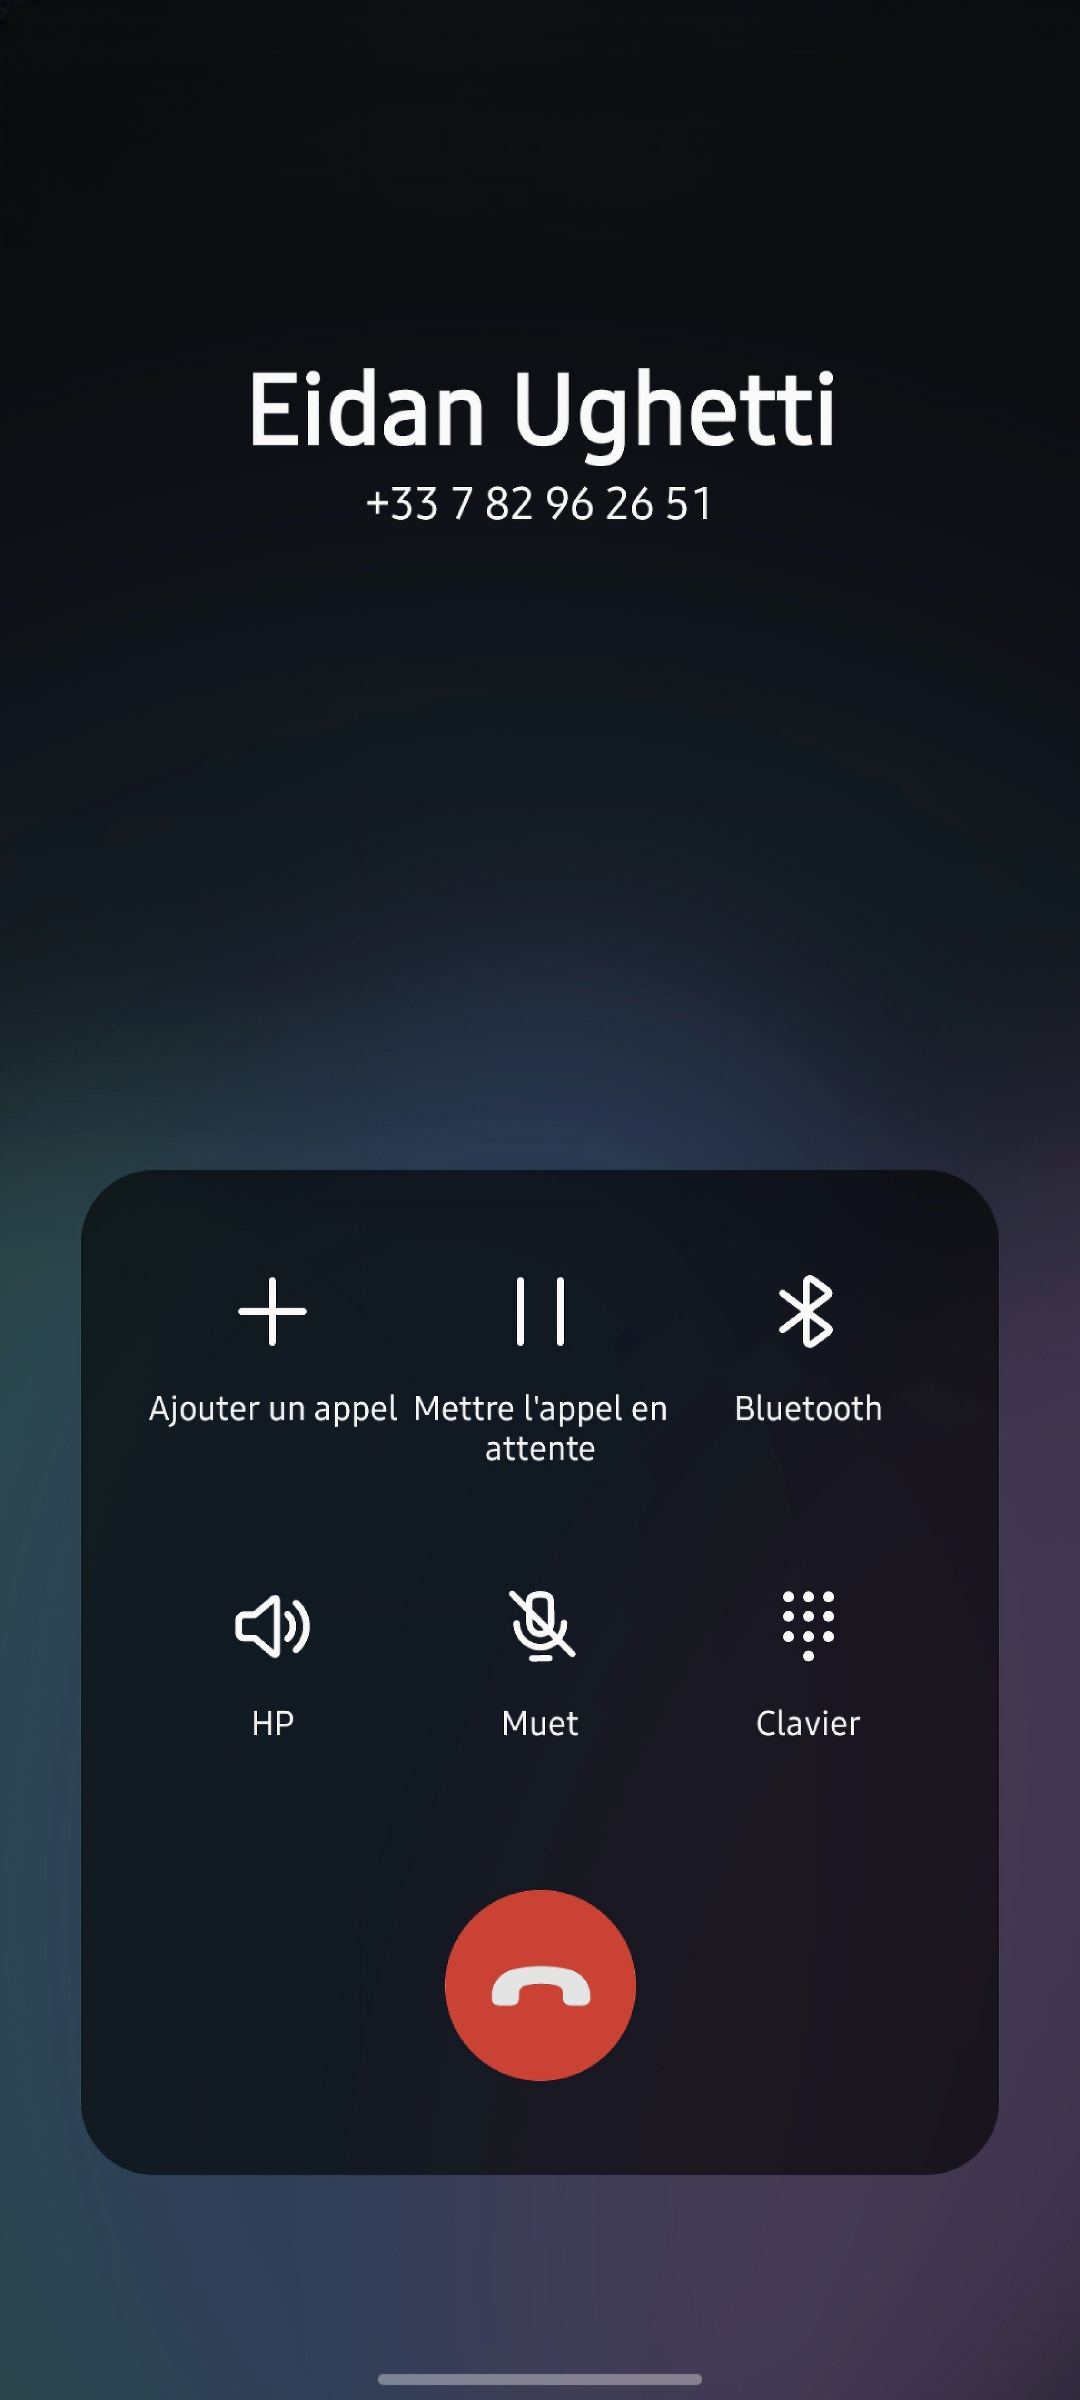
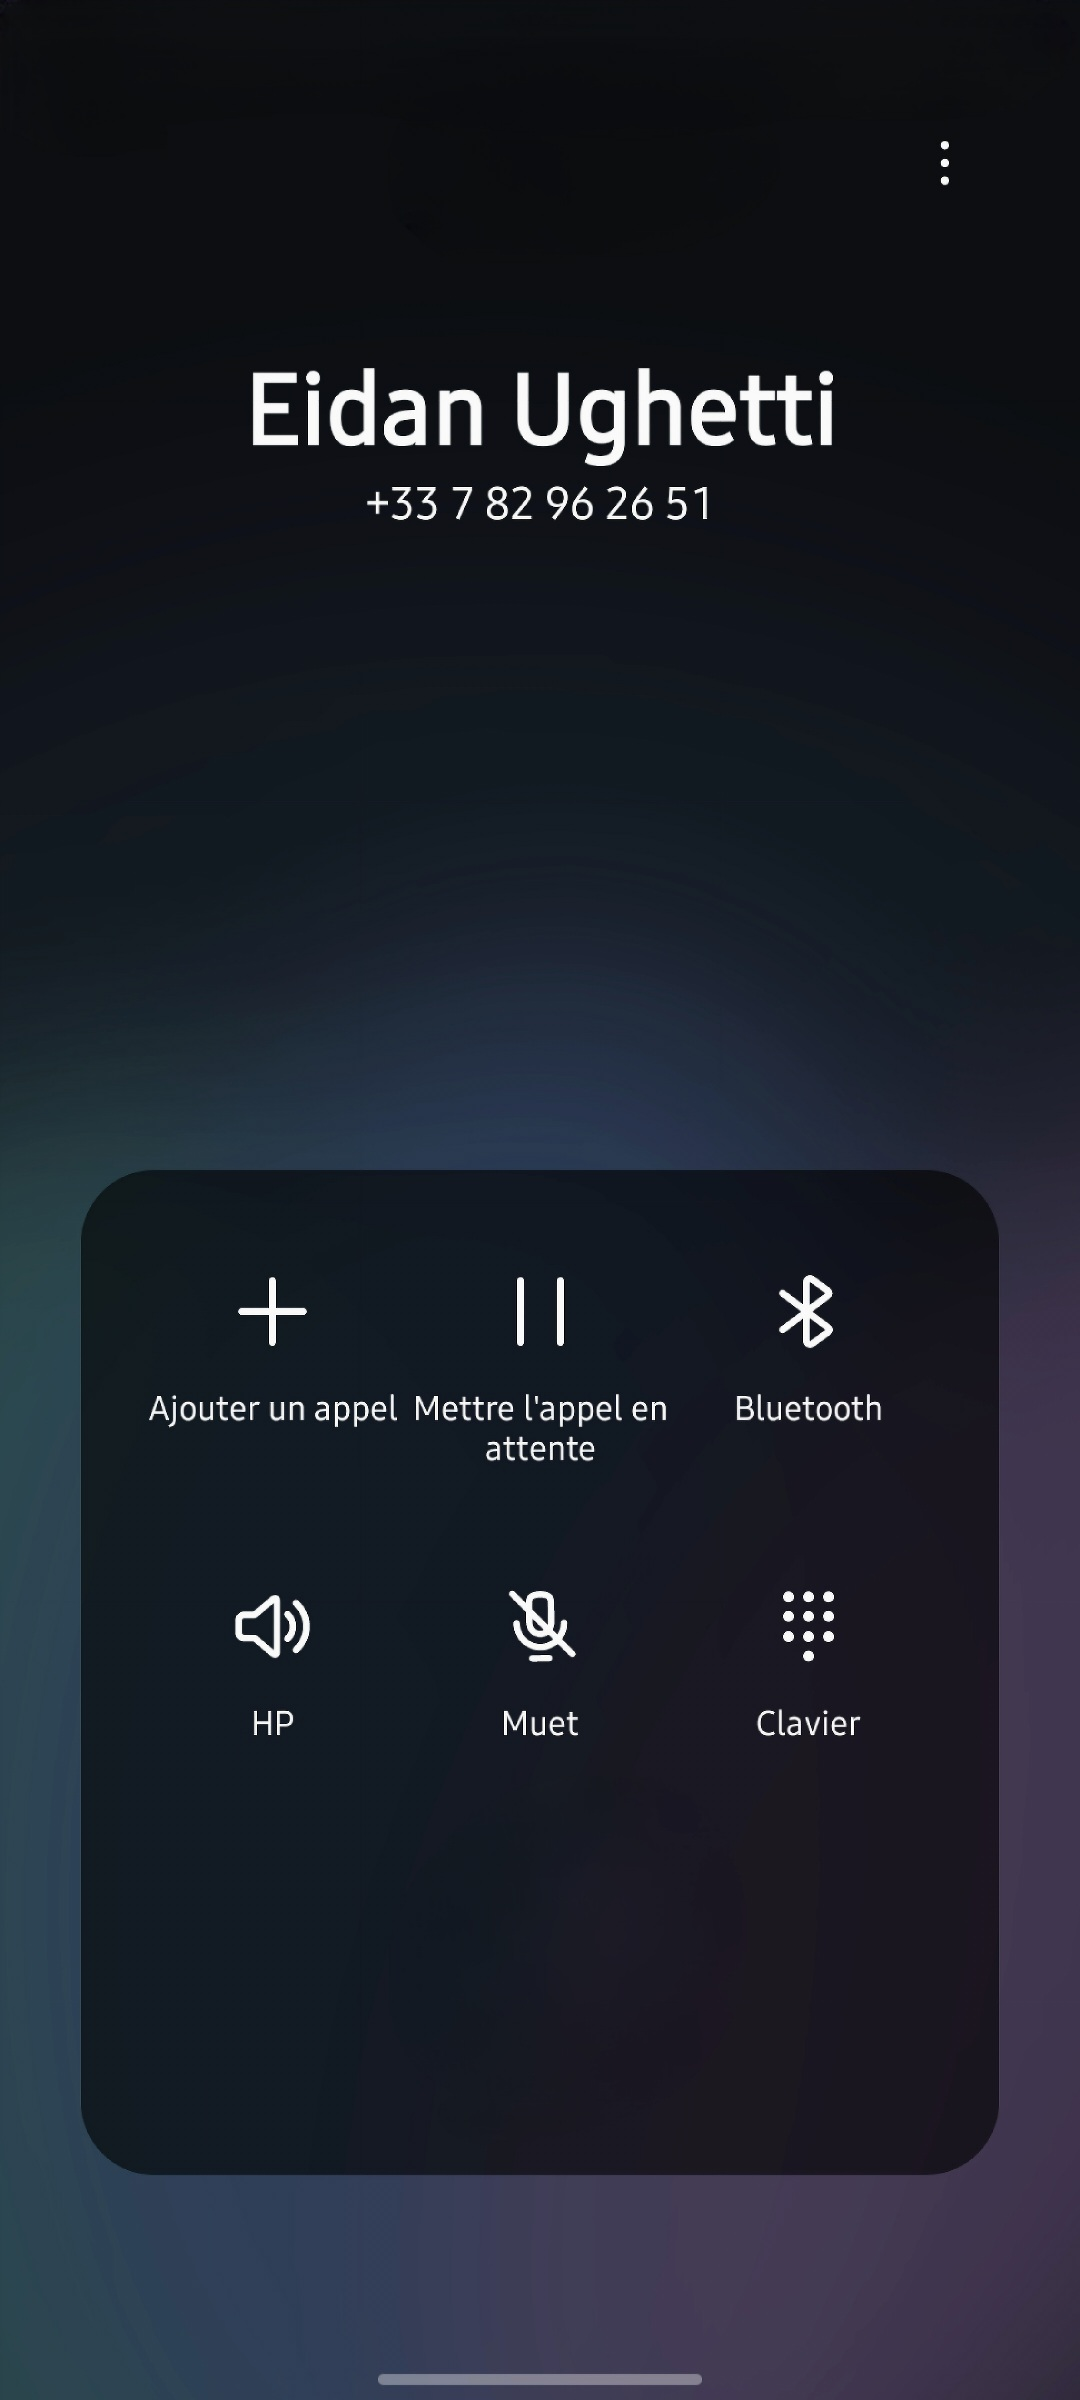
[WIP] improve delete button style

Changed region(s): [[0.3972, 0.7812, 0.6111, 0.875]]

diff --git a/src/pages/CallPage.tsx b/src/pages/CallPage.tsx
@@ -13,7 +13,7 @@ import image from '../../assets/call.jpg';
 function CallPage({ navigation }) {
   const [sound, setSound] = useState();
   const [isplaying, setIsplaying] = useState();
-  const fadeAnim = useRef(new Animated.Value(0)).current; // Initial value for opacity: 0
+  const fadeAnim = useRef(new Animated.Value(0.5)).current; // Initial value for opacity: 0
   const deviceOS = Platform.OS;
   // const image = { uri: '../../assets/call.jpg' };
 
@@ -45,12 +45,11 @@ function CallPage({ navigation }) {
       useNativeDriver: true,
     });
     const fadeOut = Animated.timing(fadeAnim, {
-      toValue: 0,
+      toValue: 0.5,
       duration: 2000,
       useNativeDriver: true,
     });
-
-    return Animated.loop(Animated.sequence([fadeIn, fadeOut]), -1).start();
+    Animated.loop(Animated.sequence([fadeIn, fadeOut]), -1).start();
   }
 
   useEffect(() => {
@@ -61,34 +60,43 @@ function CallPage({ navigation }) {
     <View style={styles.callPageContainer}>
       <ImageBackground source={image} resizeMode="cover" style={styles.imageBg}>
 
-        {isplaying ? (
-          <IconButton
-            icon="pause"
-            mode="contained"
-            style={styles.resumeButton}
-            onPress={() => {
-              navigation.navigate('Main');
-            }}
-          />
-        ) : (
-          <IconButton
-            icon="play"
-            mode="contained"
-            style={styles.resumeButton}
-            onPress={() => {
-              navigation.navigate('Main');
-            }}
-          />
-        )}
-
         <Animated.View // Special animatable View
           style={{
             position: 'absolute',
-            bottom: '11%',
+            bottom: '40%',
+            opacity: fadeAnim, // Bind opacity to animated value
+          }}
+        >
+
+          {/* isplaying ? (
+            <IconButton
+              icon="play"
+              mode="contained"
+              style={styles.resumeButton}
+              onPress={() => {
+                navigation.navigate('Main');
+              }}
+            />
+          ) : (
+            <IconButton
+              icon="pause"
+              mode="contained"
+              style={styles.resumeButton}
+              onPress={() => {
+                navigation.navigate('Main');
+              }}
+            />
+          ) */}
+        </Animated.View>
+        <Animated.View // Special animatable View
+          style={{
+            position: 'absolute',
+            bottom: '11.8%',
             opacity: fadeAnim, // Bind opacity to animated value
           }}
         >
           <IconButton
+            iconColor="white"
             icon="phone-hangup"
             mode="contained"
             style={styles.hangUpButton}

diff --git a/src/pages/Main.tsx b/src/pages/Main.tsx
@@ -28,9 +28,11 @@ function Main({ route, navigation }) {
 
   const getUserInfo = async () => {
     if (route?.params) {
+      console.log('if');
       const decoded: any = jwt_decode(route.params.userToken);
       return getUser(decoded.user.id, route.params.userToken);
     }
+    console.log('else');
     const token = await getData('@userToken', 'string');
     const decoded = jwt_decode(token);
     return getUser(decoded.user.id, token);
@@ -39,7 +41,9 @@ function Main({ route, navigation }) {
   useEffect(() => {
     getUserInfo().then((res) => {
       setIsUserConnected(true);
+      console.log('test');
     }).catch((err) => {
+      console.log('err');
       setIsUserConnected(false);
     });
   }, []);

diff --git a/styles/callPage.js b/styles/callPage.js
@@ -11,16 +11,15 @@ const styles = StyleSheet.create({
     backgroundColor: 'green',
   },
   resumeButton: {
-    position: 'absolute',
-    bottom: '40%',
-    height: 80,
-    width: 80,
+    height: 69,
+    width: 69,
     borderRadius: 100,
     justifyContent: 'center',
   },
   hangUpButton: {
-    height: 80,
-    width: 80,
+    backgroundColor: 'red',
+    height: 69,
+    width: 69,
     borderRadius: 100,
     justifyContent: 'center',
   },
